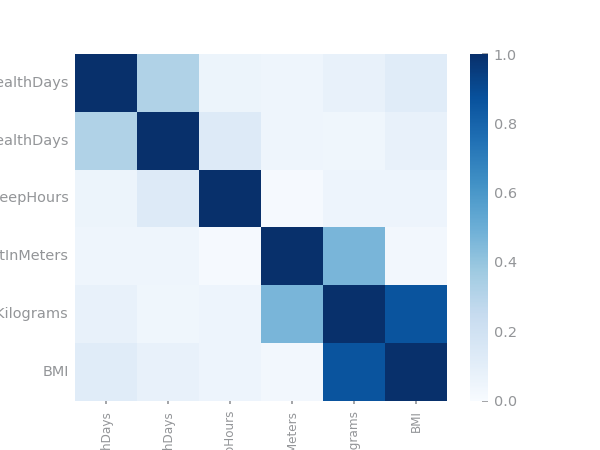
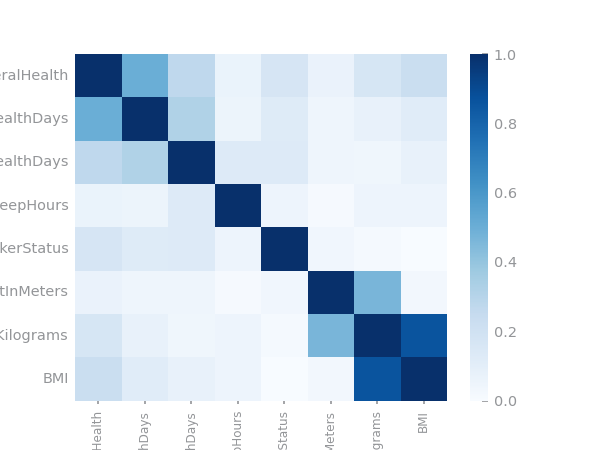
sparsity encoding

diff --git a/profiling/sparsity.py b/profiling/sparsity.py
@@ -37,16 +37,21 @@ class Sparsity:
         else:
             print("Sparsity class: there are no variables.")
 
-    def correlation_analysis(self):
-        variables_types: dict[str, list] = get_variable_types(self.data)
+    def correlation_analysis(self, encoded_data):        
+
+        '''
+        variables_types: dict[str, list] = get_variable_types(encoded_data)
         numeric: list[str] = variables_types["numeric"]
-        corr_mtx: DataFrame = self.data[numeric].corr().abs()
+        corr_mtx: DataFrame = encoded_data[numeric].corr().abs()
+        '''
+        
+        corr_mtx: DataFrame = encoded_data.corr().abs()
 
         figure()
         heatmap(
             abs(corr_mtx),
-            xticklabels=numeric,
-            yticklabels=numeric,
+            #xticklabels=numeric,
+            #yticklabels=numeric,
             annot=False,
             cmap="Blues",
             vmin=0,
@@ -72,11 +77,17 @@ class Sparsity:
         encoding = {
             # Symbolic (Ordinal)
             "GeneralHealth": {"Poor": 0, "Fair": 1, "Good": 2, "Very good": 3, "Excellent": 4},
-            "LastCheckupTime": {"Never": 0, "Within past year (anytime less than 12 months ago)": 1, "Over a year ago": 2},
+            "LastCheckupTime": {"Never": 0, "Within past year (anytime less than 12 months ago)": 1, "Over a year ago": 2, "Within past 2 years (1 year but less than 2 years ago)": 3, "Within past 5 years (2 years but less than 5 years ago)": 4, "5 or more years ago": 5 },
             "SmokerStatus": {"Never smoked": 0, "Former smoker": 1, "Current smoker - now smokes some days": 2, "Current smoker - now smokes every day": 3},            
             "AgeCategory": {"Age 40 to 44": 0, "Age 55 to 59": 1, "Age 65 to 69": 2, "Age 70 to 74": 3, "Age 75 to 79": 4, "Age 80 or older": 5},
             "TetanusLast10Tdap": {"No": 0, "Yes, received tetanus shot but not sure what type": 1, "Yes, received Tdap": 2},
-            
+            "RemovedTeeth": {
+                "None of them": 0,
+                "1 to 5": 1,  
+                "6 or more, but not all": 2,                  
+                "All": 3,  
+            },
+
             # Binary - mudar c a da prof so yes no Yes No wtv
             "Sex": {"Male": 0, "Female": 1}, 
             "PhysicalActivities": {"No": 0, "Yes": 1},
@@ -106,15 +117,15 @@ class Sparsity:
             
         }
 
+        # Encoding ordinal variables
+        encoded_data.replace(encoding, inplace=True)
+    
         # Dummification (One-hot encoding) (non-ordenal) ???????????????
-        # The dummifying 'State' will create separate binary columns for each unique state, 
-        # increasing the dimensionality of your dataset. - help
+        # The dummifying 'State' will create separate binary columns for each unique state, increasing the dimensionality of your dataset. - help
         vars_to_dummify = ["State", "RaceEthnicityCategory"]
         df_encoded = dummify(encoded_data, vars_to_dummify)
         
-        df_encoded = encoded_data.replace(encoding, inplace=False)
         return df_encoded
-
 
 
     def encode_credit(self):

diff --git a/set1.py b/set1.py
@@ -38,6 +38,7 @@ dim.missing_values()
 print('Set1 Data Types:\n', data.dtypes)
 print()
 
+
 # -> 'numeric': ['PhysicalHealthDays', 'MentalHealthDays', 'SleepHours', 'HeightInMeters', 'WeightInKilograms', 'BMI'], 
 # -> 'binary':  ['Sex', 'PhysicalActivities', 'HadHeartAttack', 'HadAngina', 'HadStroke', 'HadAsthma', 'HadSkinCancer', 
 # 'HadCOPD', 'HadDepressiveDisorder', 'HadKidneyDisease', 'HadArthritis', 'DeafOrHardOfHearing', 'BlindOrVisionDifficulty', 
@@ -76,13 +77,16 @@ granularity.analyse_property_granularity("health indicators", ["GeneralHealth", 
 sparsity = Sparsity(filename, file_tag, data)
 
 # Scatter plots to project the data along two of its defining variables
-sparsity.analyse_property_sparsity("CovidPos")
-print()
+#sparsity.analyse_property_sparsity("CovidPos")
+#print()
 
 # Correlation Analysis
 #Variable encoding before?? Applied to ordinal / binary variables
-#sparsity.encode_pos_covid()
-sparsity.correlation_analysis()
+encoded_data = sparsity.encode_pos_covid()
+print(encoded_data)
+print('Encoded Data Shape: ', encoded_data.shape) #aumentou dummification acho
+
+sparsity.correlation_analysis(encoded_data)
 
 
 
@@ -120,8 +124,6 @@ distribution.num_outliers_per_variable(NR_STDEV, IQR_FACTOR) #testar varios valo
 
 # Class Distribution
 distribution.class_distribution("CovidPos")
-
-
 
 
 
